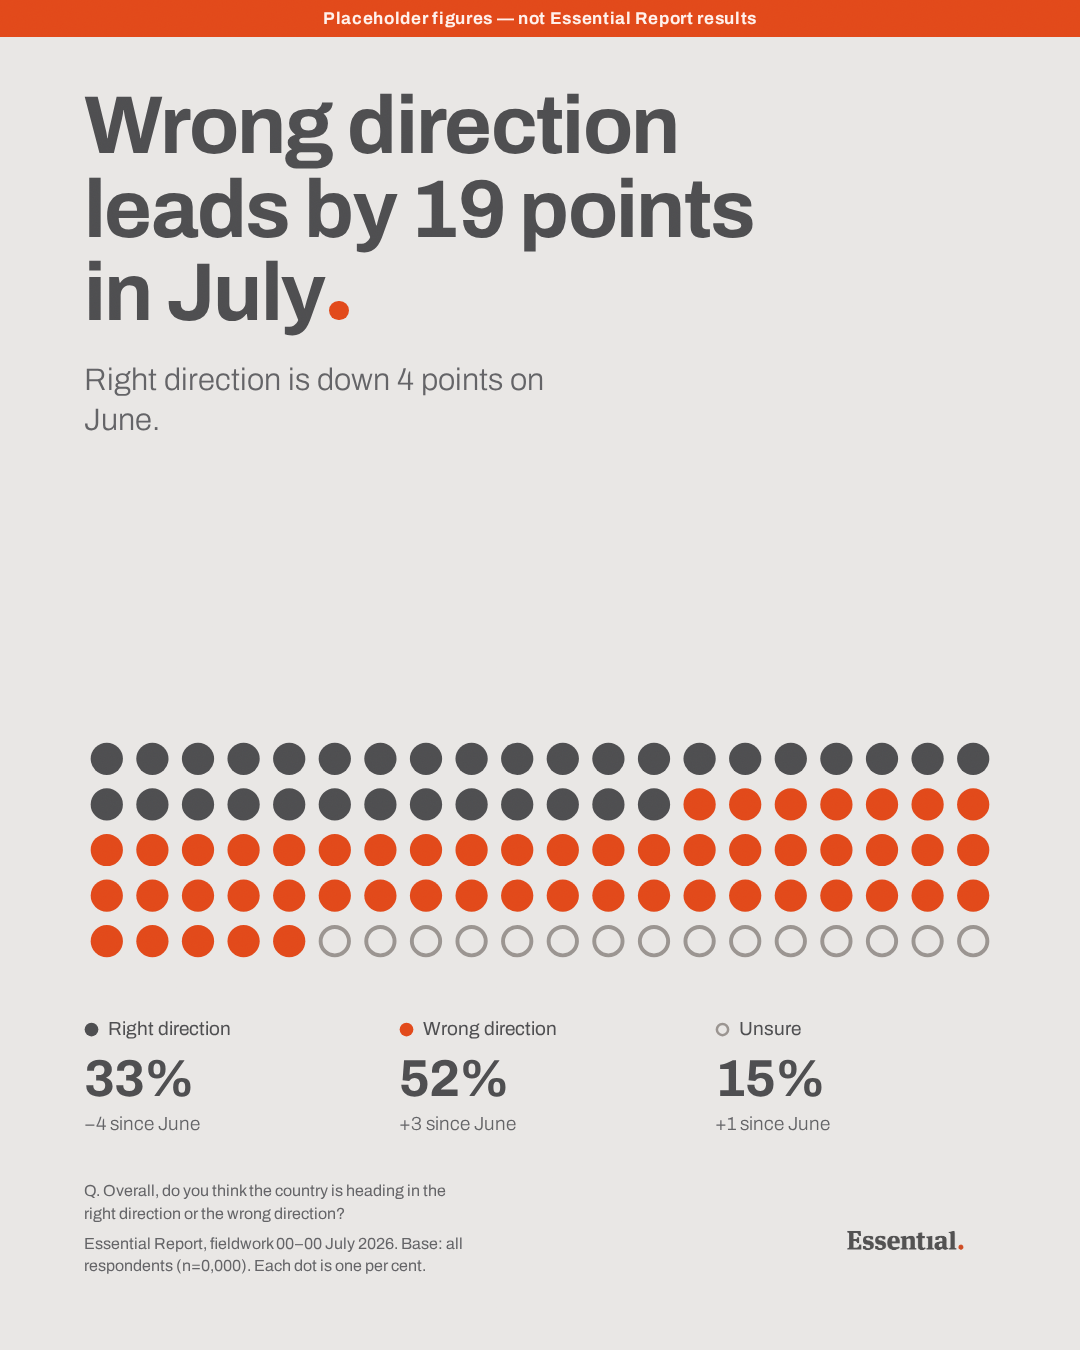
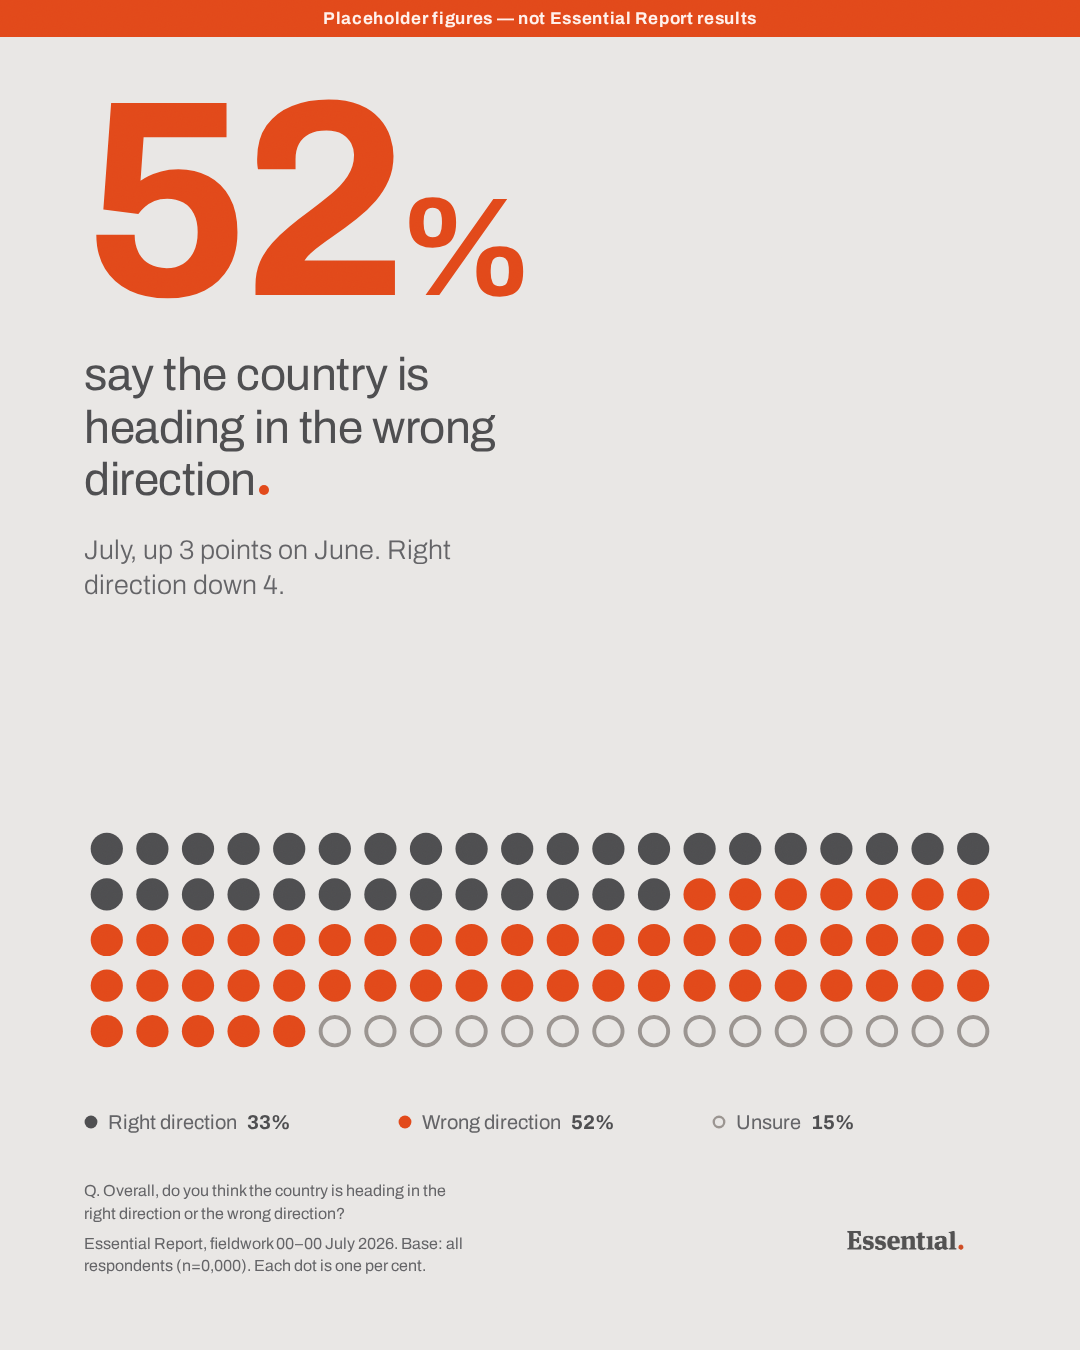
Lead the tile with one hero figure
The first version set three percentages and three change figures at 52px
and 19px respectively — eight numbers of equal rank, which reads as no
takeaway at all. A reader scrolling past carried away nothing.

Restructured around a single hero figure at 280px, one movement sentence
beneath it, and a small key under the marks that names the three colours
and gives their shares on one line each. The three delta chips are gone;
their information is in the movement sentence.

DATA["hero"] chooses what the hero figure is — the accent group's level,
the gap between the two main groups, or the month's movement. That is the
editorial call the tile previously left unmade.

Also: the per cent sign is set at half size, since at 280px a full-size one
took a third of the width and the figure stopped reading as a number.

Still clean under check-artifact.py --strict. Greyscale separation of the
marks measured at 78 / 113 / 149 against a 231 field.

Claude-Session: https://claude.ai/code/session_0177wYinpJbYXVs6buR3dcrH

diff --git a/examples/essential-report-july-2026/tile.html b/examples/essential-report-july-2026/tile.html
@@ -33,19 +33,28 @@ body::after{
 /* Every block but the plot is flex:none. Without it they share the shrink when
    copy runs long, and the source line silently loses its last row — which is
    the one carrying the sample size. The plot absorbs it all instead. */
-h1,.sub,.keys,.foot{flex:none}
+.hero,.hero-label,.change,.keys,.foot{flex:none}
 
-h1{
-  font-weight:700;font-size:82px;line-height:1.02;letter-spacing:-.02em;
-  max-width:14ch;
+/* The hero carries the accent because it and the accent dots state the same
+   fact. At this size it clears the 3:1 large-text floor (measured 3.27:1);
+   nothing smaller may be set in it — see the palette note above. */
+.hero{
+  font-weight:700;font-size:280px;line-height:.84;letter-spacing:-.035em;
+  color:#E2491A;
+}
+.unit{font-size:.5em;letter-spacing:-.01em}
+.hero-label{
+  margin-top:30px;font-weight:400;font-size:46px;line-height:1.14;
+  letter-spacing:-.01em;max-width:19ch;
 }
 /* Archivo renders a period as a hard square; the brand full stop is round. */
-.dot-mark{display:inline-block;width:.24em;height:.24em;border-radius:50%;
-  background:#E2491A;margin-left:.06em;vertical-align:baseline}
+.dot-mark{display:inline-block;width:.22em;height:.22em;border-radius:50%;
+  background:#E2491A;margin-left:.07em;vertical-align:baseline}
 
-.sub{
-  margin-top:26px;font-weight:300;font-size:31px;line-height:1.28;
-  color:#636366;max-width:26ch;
+/* One movement line, not three delta chips. */
+.change{
+  margin-top:26px;font-weight:300;font-size:27px;line-height:1.3;
+  color:#636366;max-width:30ch;
 }
 
 /* flex-basis auto, not 0 — a basis of 0 gives the plot no shrink weight, so
@@ -55,17 +64,15 @@ h1{
    slack collects in one break between the statement and the evidence instead
    of splitting into two gaps that leave the marks floating. */
 .plot{flex:1 1 auto;min-height:0;display:flex;align-items:flex-end;
-  justify-content:flex-start;padding:40px 0 46px}
+  justify-content:flex-start;padding:40px 0 34px}
 .grid{width:100%;height:auto;max-height:100%}
 
-.keys{display:flex;gap:34px;margin-top:8px}
-.k{flex:1}
-.k-name{display:flex;align-items:center;gap:9px;font-size:19px;
+.keys{display:flex;gap:30px;margin-top:22px}
+.k{flex:1;display:flex;align-items:center;gap:10px;font-size:20px;
   line-height:1.2;color:#4E4E50}
 .sw{flex:none}
-.k-val{margin-top:12px;font-weight:700;font-size:52px;line-height:1;
-  letter-spacing:-.02em}
-.k-delta{margin-top:8px;font-weight:300;font-size:19px;color:#636366}
+.k-name{color:#636366}
+.k-val{font-weight:700;letter-spacing:-.01em}
 
 .foot{margin-top:46px;display:flex;align-items:flex-end;
   justify-content:space-between;gap:40px}
@@ -80,12 +87,13 @@ h1{
 </head>
 <body>
 <p class="placeholder">Placeholder figures — not Essential Report results</p>
-<h1>Wrong direction leads by 19 points in July<span class="dot-mark"></span></h1>
-<p class="sub">Right direction is down 4 points on June.</p>
+<p class="hero">52<span class="unit">%</span></p>
+<h1 class="hero-label">say the country is heading in the wrong direction<span class="dot-mark"></span></h1>
+<p class="change">July, up 3 points on June. Right direction down 4.</p>
 
 <div class="plot"><svg class="grid" viewBox="0 0 1160 290" width="1160" height="290" role="img" aria-label="One hundred dots, one dot for each per cent"><circle cx="29" cy="29" r="20.5" fill="#4E4E50"/><circle cx="87" cy="29" r="20.5" fill="#4E4E50"/><circle cx="145" cy="29" r="20.5" fill="#4E4E50"/><circle cx="203" cy="29" r="20.5" fill="#4E4E50"/><circle cx="261" cy="29" r="20.5" fill="#4E4E50"/><circle cx="319" cy="29" r="20.5" fill="#4E4E50"/><circle cx="377" cy="29" r="20.5" fill="#4E4E50"/><circle cx="435" cy="29" r="20.5" fill="#4E4E50"/><circle cx="493" cy="29" r="20.5" fill="#4E4E50"/><circle cx="551" cy="29" r="20.5" fill="#4E4E50"/><circle cx="609" cy="29" r="20.5" fill="#4E4E50"/><circle cx="667" cy="29" r="20.5" fill="#4E4E50"/><circle cx="725" cy="29" r="20.5" fill="#4E4E50"/><circle cx="783" cy="29" r="20.5" fill="#4E4E50"/><circle cx="841" cy="29" r="20.5" fill="#4E4E50"/><circle cx="899" cy="29" r="20.5" fill="#4E4E50"/><circle cx="957" cy="29" r="20.5" fill="#4E4E50"/><circle cx="1015" cy="29" r="20.5" fill="#4E4E50"/><circle cx="1073" cy="29" r="20.5" fill="#4E4E50"/><circle cx="1131" cy="29" r="20.5" fill="#4E4E50"/><circle cx="29" cy="87" r="20.5" fill="#4E4E50"/><circle cx="87" cy="87" r="20.5" fill="#4E4E50"/><circle cx="145" cy="87" r="20.5" fill="#4E4E50"/><circle cx="203" cy="87" r="20.5" fill="#4E4E50"/><circle cx="261" cy="87" r="20.5" fill="#4E4E50"/><circle cx="319" cy="87" r="20.5" fill="#4E4E50"/><circle cx="377" cy="87" r="20.5" fill="#4E4E50"/><circle cx="435" cy="87" r="20.5" fill="#4E4E50"/><circle cx="493" cy="87" r="20.5" fill="#4E4E50"/><circle cx="551" cy="87" r="20.5" fill="#4E4E50"/><circle cx="609" cy="87" r="20.5" fill="#4E4E50"/><circle cx="667" cy="87" r="20.5" fill="#4E4E50"/><circle cx="725" cy="87" r="20.5" fill="#4E4E50"/><circle cx="783" cy="87" r="20.5" fill="#E2491A"/><circle cx="841" cy="87" r="20.5" fill="#E2491A"/><circle cx="899" cy="87" r="20.5" fill="#E2491A"/><circle cx="957" cy="87" r="20.5" fill="#E2491A"/><circle cx="1015" cy="87" r="20.5" fill="#E2491A"/><circle cx="1073" cy="87" r="20.5" fill="#E2491A"/><circle cx="1131" cy="87" r="20.5" fill="#E2491A"/><circle cx="29" cy="145" r="20.5" fill="#E2491A"/><circle cx="87" cy="145" r="20.5" fill="#E2491A"/><circle cx="145" cy="145" r="20.5" fill="#E2491A"/><circle cx="203" cy="145" r="20.5" fill="#E2491A"/><circle cx="261" cy="145" r="20.5" fill="#E2491A"/><circle cx="319" cy="145" r="20.5" fill="#E2491A"/><circle cx="377" cy="145" r="20.5" fill="#E2491A"/><circle cx="435" cy="145" r="20.5" fill="#E2491A"/><circle cx="493" cy="145" r="20.5" fill="#E2491A"/><circle cx="551" cy="145" r="20.5" fill="#E2491A"/><circle cx="609" cy="145" r="20.5" fill="#E2491A"/><circle cx="667" cy="145" r="20.5" fill="#E2491A"/><circle cx="725" cy="145" r="20.5" fill="#E2491A"/><circle cx="783" cy="145" r="20.5" fill="#E2491A"/><circle cx="841" cy="145" r="20.5" fill="#E2491A"/><circle cx="899" cy="145" r="20.5" fill="#E2491A"/><circle cx="957" cy="145" r="20.5" fill="#E2491A"/><circle cx="1015" cy="145" r="20.5" fill="#E2491A"/><circle cx="1073" cy="145" r="20.5" fill="#E2491A"/><circle cx="1131" cy="145" r="20.5" fill="#E2491A"/><circle cx="29" cy="203" r="20.5" fill="#E2491A"/><circle cx="87" cy="203" r="20.5" fill="#E2491A"/><circle cx="145" cy="203" r="20.5" fill="#E2491A"/><circle cx="203" cy="203" r="20.5" fill="#E2491A"/><circle cx="261" cy="203" r="20.5" fill="#E2491A"/><circle cx="319" cy="203" r="20.5" fill="#E2491A"/><circle cx="377" cy="203" r="20.5" fill="#E2491A"/><circle cx="435" cy="203" r="20.5" fill="#E2491A"/><circle cx="493" cy="203" r="20.5" fill="#E2491A"/><circle cx="551" cy="203" r="20.5" fill="#E2491A"/><circle cx="609" cy="203" r="20.5" fill="#E2491A"/><circle cx="667" cy="203" r="20.5" fill="#E2491A"/><circle cx="725" cy="203" r="20.5" fill="#E2491A"/><circle cx="783" cy="203" r="20.5" fill="#E2491A"/><circle cx="841" cy="203" r="20.5" fill="#E2491A"/><circle cx="899" cy="203" r="20.5" fill="#E2491A"/><circle cx="957" cy="203" r="20.5" fill="#E2491A"/><circle cx="1015" cy="203" r="20.5" fill="#E2491A"/><circle cx="1073" cy="203" r="20.5" fill="#E2491A"/><circle cx="1131" cy="203" r="20.5" fill="#E2491A"/><circle cx="29" cy="261" r="20.5" fill="#E2491A"/><circle cx="87" cy="261" r="20.5" fill="#E2491A"/><circle cx="145" cy="261" r="20.5" fill="#E2491A"/><circle cx="203" cy="261" r="20.5" fill="#E2491A"/><circle cx="261" cy="261" r="20.5" fill="#E2491A"/><circle cx="319" cy="261" r="18" fill="none" stroke="#9A9490" stroke-width="5"/><circle cx="377" cy="261" r="18" fill="none" stroke="#9A9490" stroke-width="5"/><circle cx="435" cy="261" r="18" fill="none" stroke="#9A9490" stroke-width="5"/><circle cx="493" cy="261" r="18" fill="none" stroke="#9A9490" stroke-width="5"/><circle cx="551" cy="261" r="18" fill="none" stroke="#9A9490" stroke-width="5"/><circle cx="609" cy="261" r="18" fill="none" stroke="#9A9490" stroke-width="5"/><circle cx="667" cy="261" r="18" fill="none" stroke="#9A9490" stroke-width="5"/><circle cx="725" cy="261" r="18" fill="none" stroke="#9A9490" stroke-width="5"/><circle cx="783" cy="261" r="18" fill="none" stroke="#9A9490" stroke-width="5"/><circle cx="841" cy="261" r="18" fill="none" stroke="#9A9490" stroke-width="5"/><circle cx="899" cy="261" r="18" fill="none" stroke="#9A9490" stroke-width="5"/><circle cx="957" cy="261" r="18" fill="none" stroke="#9A9490" stroke-width="5"/><circle cx="1015" cy="261" r="18" fill="none" stroke="#9A9490" stroke-width="5"/><circle cx="1073" cy="261" r="18" fill="none" stroke="#9A9490" stroke-width="5"/><circle cx="1131" cy="261" r="18" fill="none" stroke="#9A9490" stroke-width="5"/></svg></div>
 
-<div class="keys"><div class="k"><p class="k-name"><svg class="sw" viewBox="0 0 24 24" width="15" height="15"><circle cx="12" cy="12" r="11" fill="#4E4E50"/></svg><span>Right direction</span></p><p class="k-val">33%</p><p class="k-delta">−4 since June</p></div><div class="k"><p class="k-name"><svg class="sw" viewBox="0 0 24 24" width="15" height="15"><circle cx="12" cy="12" r="11" fill="#E2491A"/></svg><span>Wrong direction</span></p><p class="k-val">52%</p><p class="k-delta">+3 since June</p></div><div class="k"><p class="k-name"><svg class="sw" viewBox="0 0 24 24" width="15" height="15"><circle cx="12" cy="12" r="9" fill="none" stroke="#9A9490" stroke-width="4"/></svg><span>Unsure</span></p><p class="k-val">15%</p><p class="k-delta">+1 since June</p></div></div>
+<div class="keys"><p class="k"><svg class="sw" viewBox="0 0 24 24" width="14" height="14"><circle cx="12" cy="12" r="11" fill="#4E4E50"/></svg><span class="k-name">Right direction</span><span class="k-val">33%</span></p><p class="k"><svg class="sw" viewBox="0 0 24 24" width="14" height="14"><circle cx="12" cy="12" r="11" fill="#E2491A"/></svg><span class="k-name">Wrong direction</span><span class="k-val">52%</span></p><p class="k"><svg class="sw" viewBox="0 0 24 24" width="14" height="14"><circle cx="12" cy="12" r="9" fill="none" stroke="#9A9490" stroke-width="4"/></svg><span class="k-name">Unsure</span><span class="k-val">15%</span></p></div>
 
 <div class="foot">
   <p class="src">

diff --git a/examples/essential-report-july-2026/build.py b/examples/essential-report-july-2026/build.py
@@ -55,10 +55,17 @@ DATA = {
     # accent goes on the mark that proves the finding, and on nothing else.
     "accent": "wrong",
 
-    # Leave headline/subline as None to derive them from the numbers, or write
-    # them yourself — a headline is editorial judgement, not arithmetic.
-    "headline": None,
-    "subline": None,
+    # What the hero figure IS — the one number the tile exists to deliver.
+    #   "level"  the accent group's own share this month
+    #   "gap"    how far the leading group sits clear of the other
+    #   "change" the accent group's movement on June
+    # Everything else is support, and is sized to look like support.
+    "hero": "level",
+
+    # Leave these as None to derive them from the numbers, or write them
+    # yourself — the takeaway is editorial judgement, not arithmetic.
+    "hero_label": None,
+    "change_line": None,
 }
 
 LABELS = {
@@ -209,6 +216,16 @@ def fmt_pct(v: float) -> str:
     return f"{v:g}%"
 
 
+def hero_markup(figure: str) -> str:
+    """Set the per cent sign and any sign glyph down against the digits. At
+    270px a full-size `%` takes about a third of the width and the figure stops
+    reading as a number at a glance."""
+    out = figure
+    for glyph in ("%", "+", "−"):
+        out = out.replace(glyph, f'<span class="unit">{glyph}</span>')
+    return out
+
+
 def fmt_delta(now: float, then: float) -> str:
     d = round(now - then, 1)
     if d == 0:
@@ -217,27 +234,59 @@ def fmt_delta(now: float, then: float) -> str:
     return f"{sign}{abs(d):g} since June"
 
 
-def derive_copy(data: dict) -> tuple[str, str]:
-    """A default finding, stated as a sentence. Override it in DATA when the
-    month has a better story than the arithmetic can see."""
-    july, june = data["july"], data["june"]
-    if data["headline"] and data["subline"]:
-        return data["headline"], data["subline"]
+def derive_hero(data: dict) -> tuple[str, str, str]:
+    """The one number the tile delivers, its sentence, and the single line of
+    movement — in that order of weight.
 
-    lead = "wrong" if july["wrong"] >= july["right"] else "right"
-    gap = round(abs(july["wrong"] - july["right"]), 1)
-    moves = {k: round(july[k] - june[k], 1) for k in july}
-    biggest = max(moves, key=lambda k: abs(moves[k]))
+    An earlier draft set three values and three deltas at one size, and the
+    result carried eight numbers of equal rank and no takeaway. Everything
+    except the hero is deliberately demoted here; the other shares still
+    appear, small, in the key beneath the marks.
+    """
+    july, june, accent = data["july"], data["june"], data["accent"]
+    mode = data["hero"]
+    other = "right" if accent == "wrong" else "wrong"
 
-    headline = (f"{LABELS[lead]} leads by "
-                f"{gap:g} points in {data['month']}")
-    if abs(moves[biggest]) >= 2:
-        direction = "up" if moves[biggest] > 0 else "down"
-        subline = (f"{LABELS[biggest]} is {direction} "
-                   f"{abs(moves[biggest]):g} points on June.")
+    if mode == "level":
+        figure = fmt_pct(july[accent])
+        if accent == "unsure":
+            label = "are unsure which direction the country is heading"
+        else:
+            label = ("say the country is heading in the "
+                     f"{LABELS[accent].lower()}")
+    elif mode == "gap":
+        lead = max(("right", "wrong"), key=lambda k: july[k])
+        figure = f"{round(abs(july['wrong'] - july['right']), 1):g}"
+        label = (f"points clear — {LABELS[lead].lower()} over "
+                 f"{LABELS['right' if lead == 'wrong' else 'wrong'].lower()}")
+    elif mode == "change":
+        move = round(july[accent] - june[accent], 1)
+        figure = f"{'+' if move > 0 else '−'}{abs(move):g}"
+        label = (f"point move in {LABELS[accent].lower()} "
+                 "in a single month")
     else:
-        subline = "Little movement on June."
-    return data["headline"] or headline, data["subline"] or subline
+        raise SystemExit(f'unknown hero mode {mode!r}')
+
+    # One movement sentence, carrying both main groups. Three separate delta
+    # chips is what made the first version unreadable.
+    a_move = round(july[accent] - june[accent], 1)
+    o_move = round(july[other] - june[other], 1)
+
+    def phrase(move: float) -> str:
+        if move == 0:
+            return "unchanged"
+        return f"{'up' if move > 0 else 'down'} {abs(move):g}"
+
+    if a_move == 0 and o_move == 0:
+        change = f"{data['month']}, unchanged on June."
+    elif o_move == 0:
+        change = (f"{data['month']}, {phrase(a_move)} points on June. "
+                  f"{LABELS[other]} unchanged.")
+    else:
+        change = (f"{data['month']}, {phrase(a_move)} points on June. "
+                  f"{LABELS[other]} {phrase(o_move)}.")
+
+    return figure, data["hero_label"] or label, data["change_line"] or change
 
 
 def grid_svg(dots: dict[str, int], accent_key: str) -> str:
@@ -279,24 +328,24 @@ def grid_svg(dots: dict[str, int], accent_key: str) -> str:
             + "".join(marks) + "</svg>"), fills
 
 
-def key_row(data: dict, dots: dict[str, int], fills: dict) -> str:
+def key_row(data: dict, fills: dict) -> str:
+    """Names the three colours and gives their shares — small, on one line
+    each. This is support, not a second headline: no deltas here, and nothing
+    at a size that could compete with the hero figure."""
     cells = []
     for key in ORDER:
         form, colour = fills[key]
         if form == "fill":
-            swatch = (f'<svg class="sw" viewBox="0 0 24 24" width="15" '
-                      f'height="15"><circle cx="12" cy="12" r="11" '
+            swatch = ('<svg class="sw" viewBox="0 0 24 24" width="14" '
+                      f'height="14"><circle cx="12" cy="12" r="11" '
                       f'fill="{colour}"/></svg>')
         else:
-            swatch = (f'<svg class="sw" viewBox="0 0 24 24" width="15" '
-                      f'height="15"><circle cx="12" cy="12" r="9" fill="none" '
+            swatch = ('<svg class="sw" viewBox="0 0 24 24" width="14" '
+                      f'height="14"><circle cx="12" cy="12" r="9" fill="none" '
                       f'stroke="{colour}" stroke-width="4"/></svg>')
         cells.append(
-            f'<div class="k">'
-            f'<p class="k-name">{swatch}<span>{LABELS[key]}</span></p>'
-            f'<p class="k-val">{fmt_pct(data["july"][key])}</p>'
-            f'<p class="k-delta">{fmt_delta(data["july"][key], data["june"][key])}</p>'
-            f'</div>')
+            f'<p class="k">{swatch}<span class="k-name">{LABELS[key]}</span>'
+            f'<span class="k-val">{fmt_pct(data["july"][key])}</span></p>')
     return '<div class="keys">' + "".join(cells) + "</div>"
 
 
@@ -305,9 +354,10 @@ def key_row(data: dict, dots: dict[str, int], fills: dict) -> str:
 # --------------------------------------------------------------------------
 def build_html(data: dict) -> str:
     dots, adjusted = allocate(data["july"])
-    headline, subline = derive_copy(data)
+    figure, hero_label, change = derive_hero(data)
+    hero_fig = hero_markup(figure)
     svg, fills = grid_svg(dots, data["accent"])
-    keys = key_row(data, dots, fills)
+    keys = key_row(data, fills)
     faces, stack = font_css()
 
     logo = (HERE.parents[1] / "plugins/editorial-motion/skills/"
@@ -359,19 +409,28 @@ body::after{{
 /* Every block but the plot is flex:none. Without it they share the shrink when
    copy runs long, and the source line silently loses its last row — which is
    the one carrying the sample size. The plot absorbs it all instead. */
-h1,.sub,.keys,.foot{{flex:none}}
+.hero,.hero-label,.change,.keys,.foot{{flex:none}}
 
-h1{{
-  font-weight:700;font-size:82px;line-height:1.02;letter-spacing:-.02em;
-  max-width:14ch;
+/* The hero carries the accent because it and the accent dots state the same
+   fact. At this size it clears the 3:1 large-text floor (measured 3.27:1);
+   nothing smaller may be set in it — see the palette note above. */
+.hero{{
+  font-weight:700;font-size:280px;line-height:.84;letter-spacing:-.035em;
+  color:{ACCENT};
+}}
+.unit{{font-size:.5em;letter-spacing:-.01em}}
+.hero-label{{
+  margin-top:30px;font-weight:400;font-size:46px;line-height:1.14;
+  letter-spacing:-.01em;max-width:19ch;
 }}
 /* Archivo renders a period as a hard square; the brand full stop is round. */
-.dot-mark{{display:inline-block;width:.24em;height:.24em;border-radius:50%;
-  background:{ACCENT};margin-left:.06em;vertical-align:baseline}}
+.dot-mark{{display:inline-block;width:.22em;height:.22em;border-radius:50%;
+  background:{ACCENT};margin-left:.07em;vertical-align:baseline}}
 
-.sub{{
-  margin-top:26px;font-weight:300;font-size:31px;line-height:1.28;
-  color:{MUTED};max-width:26ch;
+/* One movement line, not three delta chips. */
+.change{{
+  margin-top:26px;font-weight:300;font-size:27px;line-height:1.3;
+  color:{MUTED};max-width:30ch;
 }}
 
 /* flex-basis auto, not 0 — a basis of 0 gives the plot no shrink weight, so
@@ -381,17 +440,15 @@ h1{{
    slack collects in one break between the statement and the evidence instead
    of splitting into two gaps that leave the marks floating. */
 .plot{{flex:1 1 auto;min-height:0;display:flex;align-items:flex-end;
-  justify-content:flex-start;padding:40px 0 46px}}
+  justify-content:flex-start;padding:40px 0 34px}}
 .grid{{width:100%;height:auto;max-height:100%}}
 
-.keys{{display:flex;gap:34px;margin-top:8px}}
-.k{{flex:1}}
-.k-name{{display:flex;align-items:center;gap:9px;font-size:19px;
+.keys{{display:flex;gap:30px;margin-top:22px}}
+.k{{flex:1;display:flex;align-items:center;gap:10px;font-size:20px;
   line-height:1.2;color:{INK}}}
 .sw{{flex:none}}
-.k-val{{margin-top:12px;font-weight:700;font-size:52px;line-height:1;
-  letter-spacing:-.02em}}
-.k-delta{{margin-top:8px;font-weight:300;font-size:19px;color:{MUTED}}}
+.k-name{{color:{MUTED}}}
+.k-val{{font-weight:700;letter-spacing:-.01em}}
 
 .foot{{margin-top:46px;display:flex;align-items:flex-end;
   justify-content:space-between;gap:40px}}
@@ -406,8 +463,9 @@ h1{{
 </head>
 <body>
 {warning}
-<h1>{headline}<span class="dot-mark"></span></h1>
-<p class="sub">{subline}</p>
+<p class="hero">{hero_fig}</p>
+<h1 class="hero-label">{hero_label}<span class="dot-mark"></span></h1>
+<p class="change">{change}</p>
 
 <div class="plot">{svg}</div>
 

diff --git a/examples/essential-report-july-2026/README.md b/examples/essential-report-july-2026/README.md
@@ -19,11 +19,28 @@ fieldwork dates and the base, then set `"placeholder": False` and re-run.
 
 ## What the tile does
 
-One frame, one fact. A hundred dots, one dot per percentage point, so the
-proportion is countable against a denominator that is on screen. Right
-direction and wrong direction are filled; unsure is drawn as open rings.
+One frame, one fact — and the hierarchy is the whole design.
 
-Three decisions worth knowing about before editing:
+The first version set three percentages and three change figures at the same
+size. That is eight numbers of equal rank, which is the same as no takeaway:
+a reader scrolling past has nothing to carry away. The tile now leads with a
+single hero figure, states one movement line beneath it, and demotes everything
+else to a small key under the marks. Nothing but the hero is sized to be read
+first.
+
+`DATA["hero"]` picks which number that is:
+
+| Value | Hero figure |
+|---|---|
+| `"level"` | the accent group's own share this month (default) |
+| `"gap"` | how far the leading group sits clear of the other |
+| `"change"` | the accent group's movement on June |
+
+Beneath it, a hundred dots — one dot per percentage point — so the proportion
+is countable against a denominator that is on screen. Right direction and wrong
+direction are filled; unsure is drawn as open rings.
+
+Three further decisions worth knowing about before editing:
 
 **The marks are computed from the data.** `allocate()` turns the published
 percentages into exactly 100 dots by largest remainder, and the build fails if
@@ -41,17 +58,20 @@ all three categories 25 L\* apart, so unsure is drawn as an open ring. Measured
 in greyscale the four values come out at 79 / 114 / 167 / 231 — distinct by
 luminance as well as by shape.
 
-The headline and sub-line derive from the numbers if left as `None`. A headline
-is editorial judgement, so write your own when the month has a better story than
-the arithmetic can see.
+`hero_label` and `change_line` derive from the numbers if left as `None`. The
+takeaway is editorial judgement, so write your own when the month has a better
+story than the arithmetic can see.
 
 ## Checks this passes
 
 - `check-artifact.py --strict` — clean
 - Text contrast on the warm ground: ink 6.73:1, muted 4.85:1. The muted grey is
   one step darker than the `--text-secondary` token, which measures 4.18:1 and
-  fails the 4.5:1 floor
-- Legible at 200px wide, and as a still
+  fails the 4.5:1 floor. The hero figure is set in the accent at 3.27:1, which
+  clears the 3:1 large-text floor and nothing smaller may use it
+- Greyscale luminance of the marks: ink 78, accent 113, ring 149, field 231
+- Legible at 200px wide, and as a still — at thumbnail size the hero figure and
+  its label are what survive, which is the point
 
 ## Rendering
 
